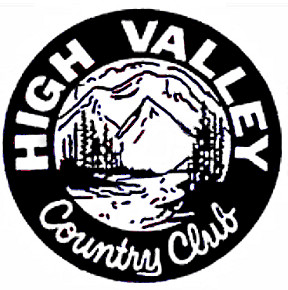
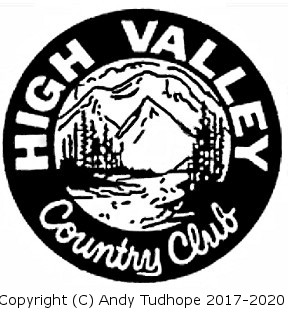
v2.1.0.29: Copyright updates

diff --git a/DXApplication2/Models/HVCC.designer.cs b/DXApplication2/Models/HVCC.designer.cs
@@ -81,6 +81,9 @@ namespace HVCC.Shell.Models
     partial void InsertListOfItem(ListOfItem instance);
     partial void UpdateListOfItem(ListOfItem instance);
     partial void DeleteListOfItem(ListOfItem instance);
+    partial void InsertKey(Key instance);
+    partial void UpdateKey(Key instance);
+    partial void DeleteKey(Key instance);
     #endregion
 		
 		public HVCCDataContext() : 
@@ -334,6 +337,14 @@ namespace HVCC.Shell.Models
 			get
 			{
 				return this.GetTable<ListOfItem>();
+			}
+		}
+		
+		public System.Data.Linq.Table<Key> Keys
+		{
+			get
+			{
+				return this.GetTable<Key>();
 			}
 		}
 		
@@ -9821,6 +9832,92 @@ namespace HVCC.Shell.Models
 					this._Description = value;
 					this.SendPropertyChanged("Description");
 					this.OnDescriptionChanged();
+				}
+			}
+		}
+		
+		public event PropertyChangingEventHandler PropertyChanging;
+		
+		public event PropertyChangedEventHandler PropertyChanged;
+		
+		protected virtual void SendPropertyChanging()
+		{
+			if ((this.PropertyChanging != null))
+			{
+				this.PropertyChanging(this, emptyChangingEventArgs);
+			}
+		}
+		
+		protected virtual void SendPropertyChanged(String propertyName)
+		{
+			if ((this.PropertyChanged != null))
+			{
+				this.PropertyChanged(this, new PropertyChangedEventArgs(propertyName));
+			}
+		}
+	}
+	
+	[global::System.Data.Linq.Mapping.TableAttribute(Name="Audit.Keys")]
+	public partial class Key : INotifyPropertyChanging, INotifyPropertyChanged
+	{
+		
+		private static PropertyChangingEventArgs emptyChangingEventArgs = new PropertyChangingEventArgs(String.Empty);
+		
+		private System.Guid _KEY1;
+		
+		private System.DateTime _Expiration;
+		
+    #region Extensibility Method Definitions
+    partial void OnLoaded();
+    partial void OnValidate(System.Data.Linq.ChangeAction action);
+    partial void OnCreated();
+    partial void OnKEY1Changing(System.Guid value);
+    partial void OnKEY1Changed();
+    partial void OnExpirationChanging(System.DateTime value);
+    partial void OnExpirationChanged();
+    #endregion
+		
+		public Key()
+		{
+			OnCreated();
+		}
+		
+		[global::System.Data.Linq.Mapping.ColumnAttribute(Name="[KEY]", Storage="_KEY1", DbType="UniqueIdentifier NOT NULL", IsPrimaryKey=true)]
+		public System.Guid KEY1
+		{
+			get
+			{
+				return this._KEY1;
+			}
+			set
+			{
+				if ((this._KEY1 != value))
+				{
+					this.OnKEY1Changing(value);
+					this.SendPropertyChanging();
+					this._KEY1 = value;
+					this.SendPropertyChanged("KEY1");
+					this.OnKEY1Changed();
+				}
+			}
+		}
+		
+		[global::System.Data.Linq.Mapping.ColumnAttribute(Storage="_Expiration", DbType="DateTime NOT NULL")]
+		public System.DateTime Expiration
+		{
+			get
+			{
+				return this._Expiration;
+			}
+			set
+			{
+				if ((this._Expiration != value))
+				{
+					this.OnExpirationChanging(value);
+					this.SendPropertyChanging();
+					this._Expiration = value;
+					this.SendPropertyChanged("Expiration");
+					this.OnExpirationChanged();
 				}
 			}
 		}

diff --git a/DXApplication2/MainWindow.xaml.cs b/DXApplication2/MainWindow.xaml.cs
@@ -17,6 +17,7 @@
     using DevExpress.Xpf.Printing;
     using System.ComponentModel;
     using HVCC.Shell.Common;
+    using static HVCC.Shell.Common.Resources.Enumerations;
 
     /// <summary>
     /// Interaction logic for MainWindow.xaml
@@ -81,12 +82,38 @@
         /// <param name="routedEventArgs"></param>
         private void OnLoaded(object sender, RoutedEventArgs routedEventArgs)
         {
-            // Check to make sure there is a connection to the database
+            /// Check to make sure there is a connection to the database
+            /// 
             if (!Host.Instance.IsConnected)
             {
                 MessageBox.Show("Cannot establish connection to the database", "Error", MessageBoxButton.OK, MessageBoxImage.Error);
                 this.Close();
             }
+            /// Check right to use license
+            /// 
+            LicenseState state = Host.Instance.IsLicensed;
+            switch (state)
+            {
+                case LicenseState.Error:
+                    /// this message is handled in MainViewModel so the actual error can be captured
+                    /// 
+                    this.Close();
+                    break;
+                case LicenseState.KeyError:
+                    MessageBox.Show("License Error:\nUnable to obtain license key", "ERROR", MessageBoxButton.OK, MessageBoxImage.Error);
+                    this.Close();
+                    break;
+                case LicenseState.Expiring:
+                    MessageBox.Show("The license for the application will expire on April 30th.\nPlease renew the license key.", "WARNING", MessageBoxButton.OK, MessageBoxImage.Warning);
+                    break;
+                case LicenseState.Expired:
+                    MessageBox.Show("The application license has expired.\nYou will need to obtain a new license to run the application.", "ERROR", MessageBoxButton.OK, MessageBoxImage.Error);
+                    this.Close();
+                    break;
+                case LicenseState.Valid:
+                    break;
+            }
+
         }
 
         /// <summary>

diff --git a/DXApplication2/Host.cs b/DXApplication2/Host.cs
@@ -14,6 +14,7 @@
     using HVCC.Shell.Models;
     using System.Windows;
     using System.ComponentModel;
+    using static HVCC.Shell.Common.Resources.Enumerations;
 
     public enum UserRole
     {
@@ -421,6 +422,51 @@
                 }
             }
         }
+
+        /// <summary>
+        /// Indicates state of right to use license
+        /// </summary>
+        public LicenseState IsLicensed
+        {
+            get
+            {
+                try
+                {
+                    string text = System.IO.File.ReadAllText(@"\\HVCCServer\HVCCApplication\license.key");
+                    Guid key = new Guid(text);
+
+                    Key LicenseKey = (from x in dc.Keys
+                                      where x.KEY1 == key
+                                      select x).FirstOrDefault();
+
+                    if (null == LicenseKey)
+                    {
+                        return LicenseState.KeyError;
+                    }
+                    else
+                    {
+                        if (LicenseKey.Expiration < DateTime.Now)
+                        {
+                            return LicenseState.Expired;
+                        }
+                        else if (LicenseKey.Expiration.AddDays(-30) <= DateTime.Now)
+                        {
+                            return LicenseState.Expiring;
+                        }
+                        else
+                        {
+                            return LicenseState.Valid;
+                        }
+                    }
+                }
+                catch (Exception ex)
+                {
+                    MessageBox.Show("License Error:\n" + ex.Message, "ERROR", MessageBoxButton.OK, MessageBoxImage.Error);
+                    return LicenseState.Error;
+                }
+            }
+        }
+
 
         public static UserRole DBRole
         {

diff --git a/HVCC.Shell.Common/Resources/Enumerations.cs b/HVCC.Shell.Common/Resources/Enumerations.cs
@@ -31,5 +31,14 @@
             Delete,
             Remove
         };
+
+        public enum LicenseState
+        {
+            Valid,
+            Expiring,
+            Expired,
+            KeyError,
+            Error
+        }
     }
 }

diff --git a/DXApplication2/ViewModels/MainViewModel.cs b/DXApplication2/ViewModels/MainViewModel.cs
@@ -6,6 +6,7 @@
     using DevExpress.Mvvm;
     using HVCC.Shell.Common.Interfaces;
     using DevExpress.Xpf.Grid;
+    using System.Windows;
 
     /// <summary>
     /// Shell.Instance is the "ViewModel" to the MainWindow "View"
